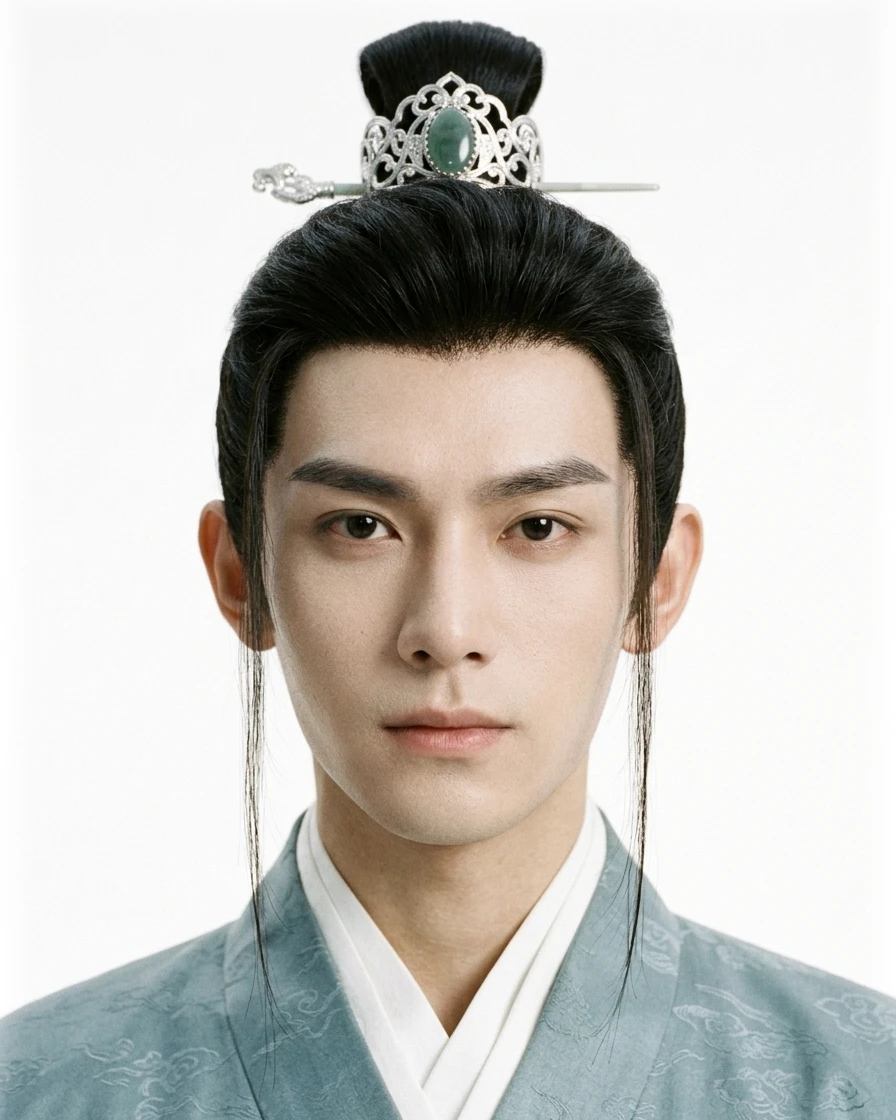
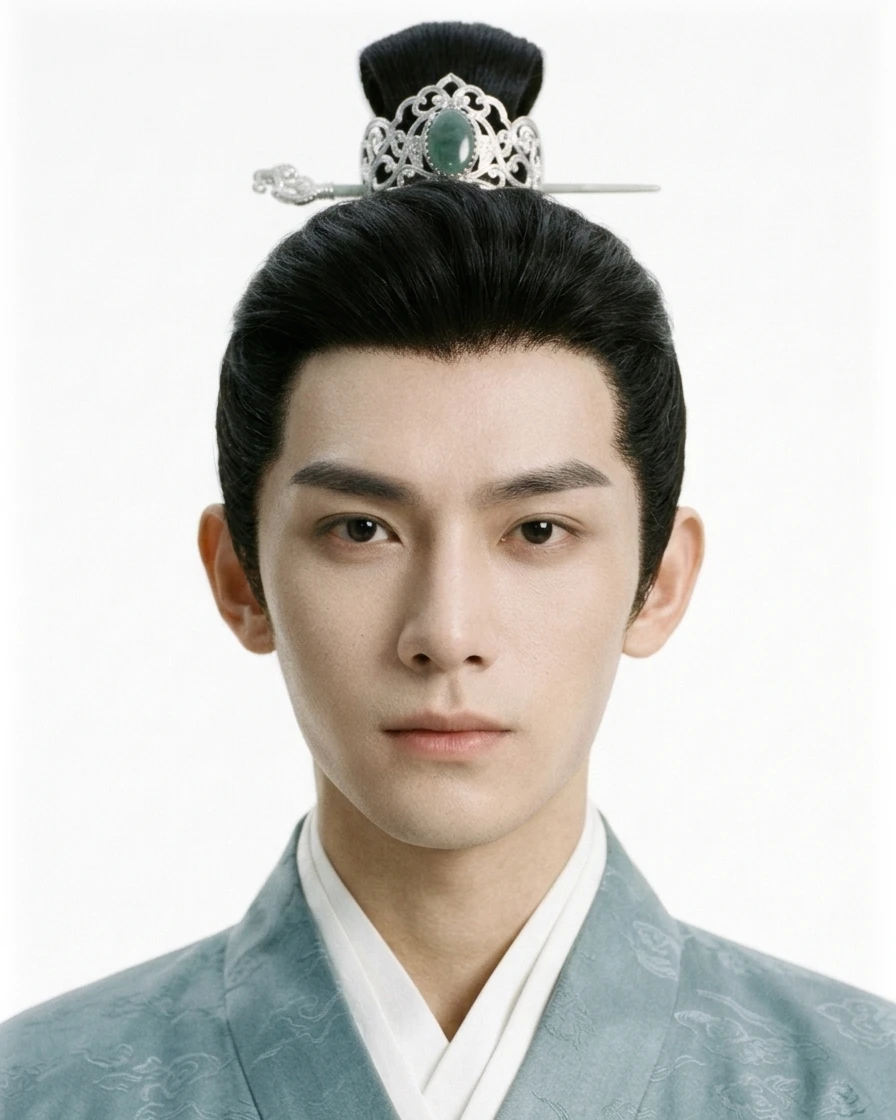
Update wantangfeng/v2 Wen Rufeng v3 with clean tucked temples

diff --git a/wantangfeng/v2/index.html b/wantangfeng/v2/index.html
@@ -296,7 +296,7 @@ footer{margin-top:36px;padding-top:16px;border-top:1px solid var(--rule-2);color
       <div class="note-box">
         <div class="k">妆发与年代感</div>
         <div class="old">旧版：28 岁温和儒生感，缺古偶男主辨识度</div>
-        <div class="new">新版：26 岁矜贵男主修容 + 两缕利落修颜鬓发，胶片颗粒肌理</div>
+        <div class="new">新版：26 岁矜贵男主修容 + 两鬓长发全部利落收起，无垂落碎发，胶片颗粒肌理</div>
       </div>
       <div class="note-box">
         <div class="k">服化剪裁</div>
@@ -315,12 +315,12 @@ footer{margin-top:36px;padding-top:16px;border-top:1px solid var(--rule-2);color
         <div class="img-foot"><span>face-front.v1</span><span>896×1120</span></div>
       </article>
       <article class="img-card is-new">
-        <div class="img-head"><span>正脸大头照 · 新版</span><span class="badge new">v2 重构</span></div>
-        <div class="img-wrap" data-zoom="./assets/wen-new-face.webp" data-cap="温如风 · 新版正脸大头照 (v2 · 896×1120 · 派生自 v2 锚点)">
+        <div class="img-head"><span>正脸大头照 · 新版</span><span class="badge new">v3 利落收鬓</span></div>
+        <div class="img-wrap" data-zoom="./assets/wen-new-face.webp" data-cap="温如风 · 新版正脸大头照 (v3 · 896×1120 · 两鬓已收起)">
           <img src="./assets/wen-new-face.webp" alt="温如风 新版大头照">
           <span class="hint">点击放大</span>
         </div>
-        <div class="img-foot"><span>face-front.v2</span><span>896×1120</span></div>
+        <div class="img-foot"><span>face-front.v3</span><span>896×1120</span></div>
       </article>
       <article class="img-card">
         <div class="img-head"><span>正面全身锚点 · 旧版</span><span class="badge old">v1</span></div>
@@ -331,29 +331,29 @@ footer{margin-top:36px;padding-top:16px;border-top:1px solid var(--rule-2);color
         <div class="img-foot"><span>front-full.v1</span><span>848×1264</span></div>
       </article>
       <article class="img-card is-new">
-        <div class="img-head"><span>正面全身锚点 · 新版</span><span class="badge new">v2 锚点</span></div>
-        <div class="img-wrap" data-zoom="./assets/wen-new-full.webp" data-cap="温如风 · 新版正面全身锚点 (v2 · 848×1264 · 待确认)">
+        <div class="img-head"><span>正面全身锚点 · 新版</span><span class="badge new">v3 锚点</span></div>
+        <div class="img-wrap" data-zoom="./assets/wen-new-full.webp" data-cap="温如风 · 新版正面全身锚点 (v3 · 848×1264 · 两鬓已收起)">
           <img src="./assets/wen-new-full.webp" alt="温如风 新版正面全身">
           <span class="hint">点击放大</span>
         </div>
-        <div class="img-foot"><span>front-full.v2</span><span>848×1264</span></div>
+        <div class="img-foot"><span>front-full.v3</span><span>848×1264</span></div>
       </article>
     </div>
 
     <div class="wipe-panel">
       <div class="wipe-card">
         <div class="wipe-hd">
-          <strong>正脸大头照对比（旧 v1 / 新 v2）</strong>
+          <strong>正脸大头照对比（旧 v1 / 新 v3）</strong>
           <div class="wipe-actions">
             <button type="button" class="mini-zoom" data-zoom="./assets/wen-old-face.webp" data-cap="温如风 · 旧版正脸大头照 (v1)">看旧图</button>
-            <button type="button" class="mini-zoom" data-zoom="./assets/wen-new-face.webp" data-cap="温如风 · 新版正脸大头照 (v2)">放大新图</button>
+            <button type="button" class="mini-zoom" data-zoom="./assets/wen-new-face.webp" data-cap="温如风 · 新版正脸大头照 (v3)">放大新图</button>
           </div>
         </div>
         <div class="wipe-stage r45">
           <img src="./assets/wen-new-face.webp" alt="温如风 新版大头照">
           <img class="wipe-over" src="./assets/wen-old-face.webp" alt="温如风 旧版大头照">
           <span class="wipe-tag left">旧版 v1</span>
-          <span class="wipe-tag right">新版 v2</span>
+          <span class="wipe-tag right">新版 v3</span>
           <div class="wipe-line"><div class="wipe-knob">↔</div></div>
           <input class="wipe-range" type="range" min="0" max="100" value="50" aria-label="温如风大头照对比滑块">
         </div>
@@ -362,17 +362,17 @@ footer{margin-top:36px;padding-top:16px;border-top:1px solid var(--rule-2);color
 
       <div class="wipe-card">
         <div class="wipe-hd">
-          <strong>正面全身锚点对比（旧 v1 / 新 v2）</strong>
+          <strong>正面全身锚点对比（旧 v1 / 新 v3）</strong>
           <div class="wipe-actions">
             <button type="button" class="mini-zoom" data-zoom="./assets/wen-old-full.webp" data-cap="温如风 · 旧版正面全身 (v1)">看旧图</button>
-            <button type="button" class="mini-zoom" data-zoom="./assets/wen-new-full.webp" data-cap="温如风 · 新版正面全身锚点 (v2)">放大新图</button>
+            <button type="button" class="mini-zoom" data-zoom="./assets/wen-new-full.webp" data-cap="温如风 · 新版正面全身锚点 (v3)">放大新图</button>
           </div>
         </div>
         <div class="wipe-stage r23">
           <img src="./assets/wen-new-full.webp" alt="温如风 新版正面全身">
           <img class="wipe-over" src="./assets/wen-old-full.webp" alt="温如风 旧版正面全身">
           <span class="wipe-tag left">旧版 v1</span>
-          <span class="wipe-tag right">新版 v2</span>
+          <span class="wipe-tag right">新版 v3</span>
           <div class="wipe-line"><div class="wipe-knob">↔</div></div>
           <input class="wipe-range" type="range" min="0" max="100" value="50" aria-label="温如风全身对比滑块">
         </div>
@@ -403,7 +403,7 @@ footer{margin-top:36px;padding-top:16px;border-top:1px solid var(--rule-2);color
             <td class="mono">front-full.v3</td>
             <td class="mono">848×1264 (2:3)</td>
             <td class="ok">✓ 全部通过（四边纯白 100%）</td>
-            <td class="wait">待确认（confirm 后派生三视图）</td>
+            <td class="ok">✓ 已确认（可派生侧面/背面）</td>
           </tr>
           <tr>
             <td>江晚棠</td>
@@ -416,17 +416,17 @@ footer{margin-top:36px;padding-top:16px;border-top:1px solid var(--rule-2);color
           <tr>
             <td>温如风</td>
             <td>正面全身（锚点）</td>
-            <td class="mono">front-full.v2</td>
+            <td class="mono">front-full.v3</td>
             <td class="mono">848×1264 (2:3)</td>
             <td class="ok">✓ 全部通过（四边纯白 100%）</td>
-            <td class="wait">待确认（confirm 后派生三视图）</td>
+            <td class="wait">待确认（两鬓收起 · confirm 后派生三视图）</td>
           </tr>
           <tr>
             <td>温如风</td>
             <td>正脸大头照</td>
-            <td class="mono">face-front.v2</td>
+            <td class="mono">face-front.v3</td>
             <td class="mono">896×1120 (4:5)</td>
-            <td class="ok">✓ 全部通过（参考 front-full/v2）</td>
+            <td class="ok">✓ 全部通过（参考 front-full/v3）</td>
             <td class="ok">已注册有效</td>
           </tr>
         </tbody>
